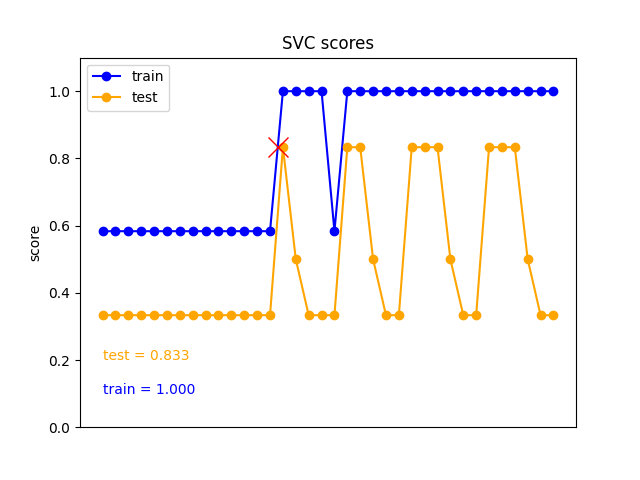
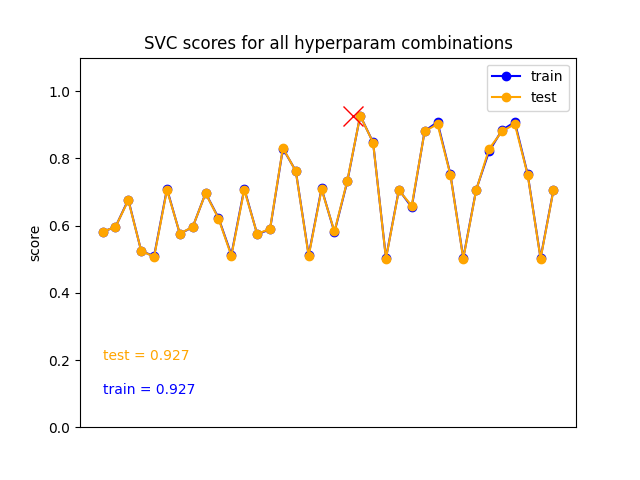
optimized SVC

diff --git a/tools.py b/tools.py
@@ -164,7 +164,7 @@ def plot_estimator_scores(name,trn_scores,test_scores,savefig=False):
     test_score, trn_score = np.max(test_scores),np.max(trn_scores)
 
     plt.figure()
-    x = np.linspace(0, len(trn_scores), 36)
+    x = np.linspace(0, len(trn_scores), len(trn_scores))
     
     plt.tick_params(axis='x',which='both',bottom=False,top=False,labelbottom=False)
     plt.ylabel("score")

diff --git a/model/support_vector_machine.py b/model/support_vector_machine.py
@@ -9,7 +9,7 @@ import tools as tools
 
 def support_vector_machine_train(X,y,c,g):
     print("Fitting data to SVC, this may take a while...")
-    svc = SVC(kernel='rbf', C=c, gamma=g, max_iter=10000, random_state=0)
+    svc = SVC(kernel='rbf', C=c, gamma=g, max_iter=100, random_state=0)
     svc.fit(X, y)
     return svc
 
